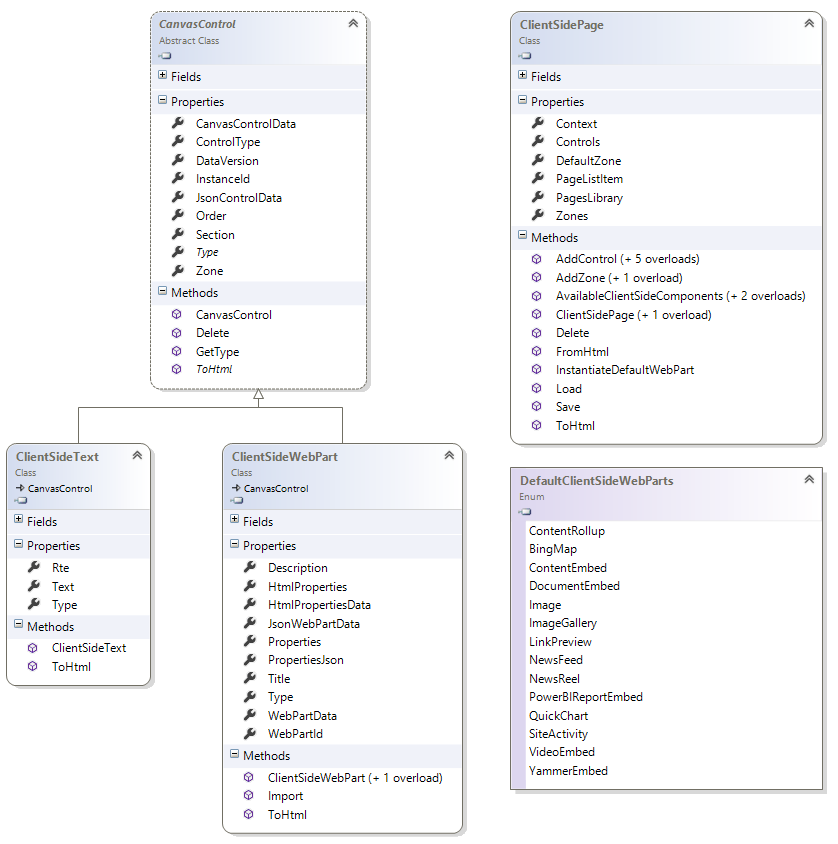
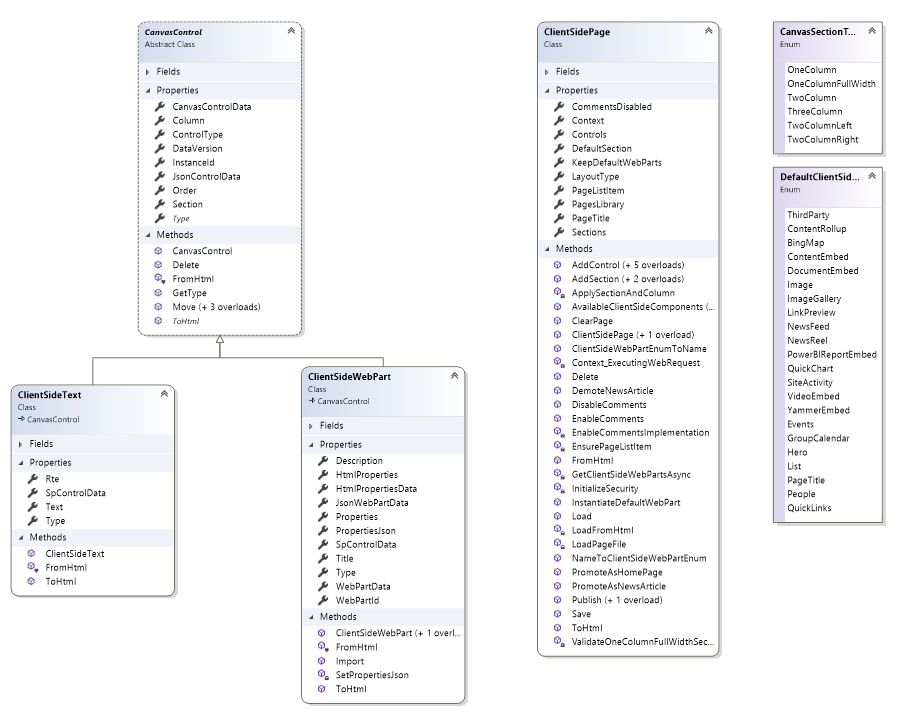
update based on internal review

diff --git a/articles/modern-experience-customizations-customize-pages.md b/articles/modern-experience-customizations-customize-pages.md
@@ -15,14 +15,13 @@ _**Applies to:** SharePoint Online_
 
 
 ## Supported customizations for "modern" pages
-The number of customizations available for "modern" pages is limited and in this article we'll provide details and examples of the supported options. The SharePoint team is working to support more options in the future. The list below gives a quick overview of the supported capabilities for "modern" team sites:
+The number of customizations available for "modern" pages keeps on growing and in this article we'll provide details and examples of the supported options. The SharePoint team is working to support more options in the future. The list below gives a quick overview of the supported capabilities for "modern" team sites:
  - Custom branding
  - Adding "modern" pages programmatically
  - Adding, deleting, updating client side web parts on "modern" pages
+ - Alternative layouts - See note on **SharePoint Virtual Summit**
 
 There are numerous customizations which currently are not supported for "modern" pages:
- - Alternative layouts - See note on **SharePoint Virtual Summit**
- - Custom page templates (layout templates) - See note on **SharePoint Virtual Summit**
  - Adding "classic" web parts on "modern" pages
  - Custom CSS via AlternateCSSUrl web property
  - Custom JavaScript embedded via User Custom Actions - See note on **SharePoint Framework Extensions**
@@ -118,110 +117,8 @@ When using PnP (as of March 2017 release) you can leverage our extension methods
 cc.Web.AddClientSidePage("mypage.aspx", true);
 ```
 
-### Introduction into the "modern" page model
-As described in the previous chapter a "modern" page essentially is row in the site pages library with the right content type and properties set. In this chapter we'll be explaining the **CanvasContent1** property as that's the one holding the information about the page structure and the client side web parts hosted on the page.
-
-#### Basic page structure
-The most elementary empty page can be constructed like this:
-
-```Html
-<div>
-</div>
-```
-
-#### Adding a  control to a page
-Let's start with showing a sample and then discuss it:
-
-```Html
-<div>
-    <div data-sp-canvascontrol="" data-sp-canvasdataversion="1.0" data-sp-controldata="{&quot;controlType&quot;:4,&quot;id&quot;:&quot;4eae4f30-3a40-4a36-bd2a-3de2b0705d54&quot;,&quot;editorType&quot;:&quot;CKEditor&quot;}">
-	-- content removed for clarity reasons --
-    </div>
-</div>
-```
-
-**Important concepts** to understand are:
-- Controls on page are nested inside the page div using the control div element. A control div is identified via the data-sp-canvascontrol, data-sp-canvasdataversion and data-sp-controldata attributes
-	- **data-sp-canvascontrol** is empty as it's used to identify the div
-	- **data-sp-canvasdataversion** describes the version of the "serialization model", currently we're at 1.0
-	- **data-sp-controldata** contains json serialized information about the control hosted inside...actual content depends on the hosted control type as discussed in the next chapters
-- The order of the control div's determines the ordering of rendering
-- Inside the control div you'll find the actual web part or rich text control markup
-
-
-#### Adding a rich text editor control
-
-```Html
-<div>
-    <div data-sp-canvascontrol="" data-sp-canvasdataversion="1.0" data-sp-controldata="{&quot;controlType&quot;:4,&quot;id&quot;:&quot;4eae4f30-3a40-4a36-bd2a-3de2b0705d54&quot;,&quot;editorType&quot;:&quot;CKEditor&quot;}">
-        <div data-sp-rte="">
-            <p>Hi <strong>there</strong></p>
-            <p>Second <strong>line</strong></p>
-            <ul>
-                <li><strong>a</strong></li>
-                <li><strong><i>b</i></strong></li>
-            </ul>
-            <p><strong><i>cool</i></strong></p>
-        </div>
-    </div>
-</div>
-```
-
-**Important concepts** to understand are:
-- The rich text editor control markup is a div tag with the **data-sp-rte** attribute. This markup is always hosted inside a control div tag
-- The **data-sp-controldata** json for a rich text editor contains these properties:
-	- **controlType** indicates its a rich text editor control and must be set to 4
-	- **id** refers to the control id which is a guid that uniquely identifies this control instance
-	- **editorType** defines the used editor and must be set to **CKEditor**
-
-```json
-{"controlType":4,"id":"4eae4f30-3a40-4a36-bd2a-3de2b0705d54","editorType":"CKEditor"}
-```
-
-- The actual rich text markup is added as HTML markup inside the rich text editor control div
-
-
-#### Adding a client side web part
-
-```Html
-<div>
-    <div data-sp-canvascontrol="" data-sp-canvasdataversion="1.0" data-sp-controldata="{&quot;controlType&quot;:3,&quot;webPartId&quot;:&quot;d1d91016-032f-456d-98a4-721247c305e8&quot;,&quot;id&quot;:&quot;7457b50c-aad3-4520-b4de-44d9ee9bbdc2&quot;}">
-        <div data-sp-webpart="" data-sp-webpartdataversion="1.0" data-sp-webpartdata="{&quot;id&quot;:&quot;d1d91016-032f-456d-98a4-721247c305e8&quot;,&quot;instanceId&quot;:&quot;7457b50c-aad3-4520-b4de-44d9ee9bbdc2&quot;,&quot;title&quot;:&quot;Image&quot;,&quot;description&quot;:&quot;Draw people's attention by adding images to your page.&quot;,&quot;dataVersion&quot;:&quot;1.0&quot;,&quot;properties&quot;:{&quot;imageSourceType&quot;:2,&quot;altText&quot;:&quot;&quot;,&quot;fileName&quot;:&quot;webhook-azure-function4.png&quot;,&quot;siteId&quot;:&quot;c827cb03-d059-4956-83d0-cd60e02e3b41&quot;,&quot;webId&quot;:&quot;9fafd7c0-e8c3-4a3c-9e87-4232c481ca26&quot;,&quot;listId&quot;:&quot;78d1b1ac-7590-49e7-b812-55f37c018c4b&quot;,&quot;uniqueId&quot;:&quot;3c27a419-66d0-4c36-bf24-bd6147719052&quot;,&quot;imgWidth&quot;:1002,&quot;imgHeight&quot;:469}}">
-            <div data-sp-componentid="">d1d91016-032f-456d-98a4-721247c305e8</div>
-            <div data-sp-htmlproperties=""><img data-sp-prop-name="imageSource" src="/sites/130023/SiteAssets/SitePages/page2/21934-webhook-azure-function4.png" /></div>
-        </div>
-    </div>
-</div>
-```
-
-**Important concepts** to understand are:
-- The client side web part markup is a div tag with the **data-sp-webpart** attribute. This markup is always hosted inside a control div tag
-- The **data-sp-controldata** json for a client side web part contains these properties:
-	- **controlType** indicates its a client side web part and must be set to 3
-	- **id** refers to the control id which is a guid that uniquely identifies this control instance
-	- **webPartId** defines the id that identifies the used client side web part
-	
-```json
-{"controlType":3,"webPartId":"d1d91016-032f-456d-98a4-721247c305e8","id":"7457b50c-aad3-4520-b4de-44d9ee9bbdc2"}
-```
-- The actual text to show is represented as HTML markup inside the rich text editor control div
-	- **data-sp-webpart** is empty as it's used to identify the div
-	- **data-sp-webpartdataversion** describes the version of the "serialization model", currently we're at 1.0
-	- **data-sp-webpartdata** describes the web part parameters. Correctly setting these parameters is important to ensure the client side web works as desired:
-		- **id** again identifies the the used client side web part (identical the webPartId in the data-sp-controldata json)
-		- **instanceId** refers to the unique control id (identical the id in the data-sp-controldata json)
-		- **title** is the web part title
-		- **description** is the web part description
-		- **dataVersion** describes the version of the "serialization model", currently we're at 1.0
-		- **properties** describe the client side web part settings. **The actual properties depend on the used web part**, below sample shows the properties for the out of the box image client side web part
-
-```json
-{"id":"d1d91016-032f-456d-98a4-721247c305e8","instanceId":"7457b50c-aad3-4520-b4de-44d9ee9bbdc2","title":"Image","description":"Draw people's attention by adding images to your page.","dataVersion":"1.0","properties":{"imageSourceType":2,"altText":"","fileName":"webhook-azure-function4.png","siteId":"c827cb03-d059-4956-83d0-cd60e02e3b41","webId":"9fafd7c0-e8c3-4a3c-9e87-4232c481ca26","listId":"78d1b1ac-7590-49e7-b812-55f37c018c4b","uniqueId":"3c27a419-66d0-4c36-bf24-bd6147719052","imgWidth":1002,"imgHeight":469}}
-```
-
-- The web part div also has 2 nested div elements:
-	- The div with the **data-sp-componentid** attribute contains the id that identifies the used client side web part (identical the webPartId in the data-sp-controldata json)
-	- The div with the **data-sp-htmlproperties** attribute will hold the specific client side web part html. You'll not need to populate this data as it's the control's responsibility to do this
+> **Important:**
+> At this moment (September 2017) pages created using the `AddTemplateFile` method do not have a preview when you hover over them from the search results page. Microsoft is working on a fix/alternative solution for this.
 
 ### Using the PnP support for "modern" pages and client side web parts
 As of the [March 2017 release the PnP Sites core library](http://aka.ms/sppnp) offers support for creating, updating and deleting client side pages. This chapter will give you insight in how to work with client side pages using the [PnP Sites core library](https://github.com/SharePoint/PnP-Sites-Core).
@@ -250,6 +147,15 @@ ClientSidePage p = ClientSidePage.Load(cc, "page3.aspx");
 
 // save the page back to SharePoint
 p.Save()
+```
+
+#### Adding a sections
+Pages can have a flexible layout: you can add one or more sections on a page and these sections then can have up to 3 columns. You can add sections to your pages using the SharePoint user interface, but you can also do this programmatically:
+
+```C#
+var page2 = cc.Web.AddClientSidePage("PageWithSections.aspx", true);
+page2.AddSection(CanvasSectionTemplate.ThreeColumn, 5);
+page2.AddSection(CanvasSectionTemplate.TwoColumn, 10);
 ```
 
 #### Adding an out of the box web part 
